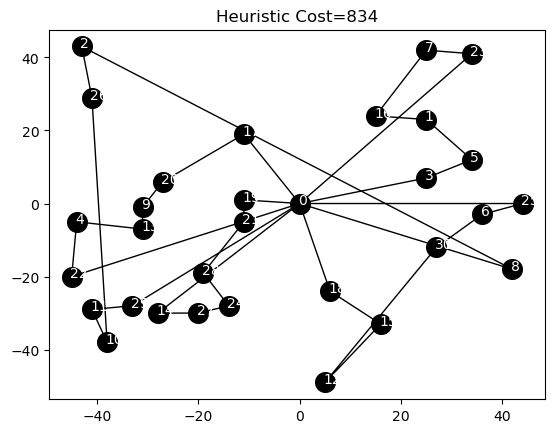
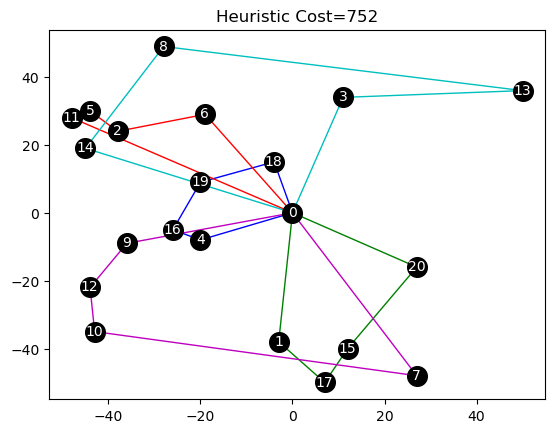
colors ok, need to plot evolution curve

diff --git a/src/solver/column_generation/rcsp.py b/src/solver/column_generation/rcsp.py
@@ -156,7 +156,7 @@ class RCSP:
         )
 
     def solve_enumeration(
-        self, vehicle_cap_dual: float
+        self, vehicle_cap_dual: float, max_clients_in_route: int, max_num_solutions: int
     ) -> List[tuple[float, List[int]]]:
         """The enumeration procedure finds solutions of the type:
         source -> M -> target, where M is a set of unique nodes different than {s, t},
@@ -164,18 +164,24 @@ class RCSP:
 
         Args:
             vehicle_cap_dual (float):
+            max_clients_in_route (int):
+            max_num_solutions (int)
 
         Returns:
             solutions (List[float, List[int]]): list of (cost, path)
         """
+        assert max_clients_in_route > 0
+        assert max_num_solutions > 0
+
         # Add all the feasible paths here with its cost and set of node
         solutions: List[float, List[int]] = []
         M = list(self.set_N)
         M.remove(self.par_source)
         M.remove(self.par_target)
 
-        # Get all the routes of size 1,2,...,|M|
-        for i in range(1, len(M) + 1):
+        # Get all the routes of size 1, 2, ..., max_clients_in_route
+        for i in range(1, max_clients_in_route + 1):
+            print(f"\tAnalyzing combinations C({len(M)},{i})")
             comb = combinations(M, i)
             paths = [[self.par_source] + list(c) + [self.par_target] for c in comb]
             for p in paths:
@@ -183,7 +189,8 @@ class RCSP:
                 if feasible and cost < 0:
                     solutions.append((cost, p))
 
-        return solutions
+        solutions.sort()
+        return solutions[0 : min(len(solutions), max_num_solutions)]
 
     def evaluate_path(
         self, p: List[int], vehicle_cap_dual: float

diff --git a/src/problem/cvrp.py b/src/problem/cvrp.py
@@ -23,8 +23,8 @@ class CVRP:
         self.demand: List[int] = data["demand"]  # demand of each node
         self.coordinates: np.ndarray = np.asarray(data["coordinates"])
         self.distance: np.ndarray = self._get_distances(self.coordinates)
-        print(f"distances:\n{self.distance}")
-        print(f"demand:\n{self.demand}")
+        # print(f"distances:\n{self.distance}")
+        # print(f"demand:\n{self.demand}")
 
     def is_valid_route(self, r: Route) -> bool:
         """Checks the validity of the route:
@@ -103,14 +103,22 @@ class CVRP:
             x, y = self.coordinates[i, :]
             color = "black"
             ax.scatter(x, y, s=200, color=color)  # circle
-            plt.annotate(str(i), (x - 0.3, y - 0.35), color="white", size=10)  # id
+            x_displacement = -1 if i < 10 else -2
+            plt.annotate(
+                str(i), (x + x_displacement, y - 1), color="white", size=10
+            )  # id
 
         # Plot the routes
-        for route in routes.values():
+        route_color = ["b", "g", "r", "c", "m", "k"]
+
+        for index, route in enumerate(routes.values()):
             if len(route.nodes) > 0:
+                col = route_color[index]
                 verts = [pos[n] for n in route.nodes]
                 path = Path(verts)
-                patch = patches.PathPatch(path, facecolor="none", lw=1, zorder=0)
+                patch = patches.PathPatch(
+                    path, facecolor="none", lw=1, zorder=0, edgecolor=col
+                )
                 ax.add_patch(patch)
 
         # Save the fig

diff --git a/src/solver/column_generation/pricing_problem.py b/src/solver/column_generation/pricing_problem.py
@@ -4,6 +4,8 @@ import numpy as np
 
 from .rcsp import RCSP
 
+_MAX_NUM_SOLUTIONS = 100
+
 
 class PricingProblem:
     """
@@ -71,12 +73,12 @@ class PricingProblem:
         duals_col = np.zeros((n + 1, 1))
         for id_client, dual_value in self.client_duals.items():
             duals_col[id_client, 0] = dual_value
-        print(f"duals_col:\n{duals_col}")
-        print(f"\ncost before duals:\n{cost}")
+        # print(f"duals_col:\n{duals_col}")
+        # print(f"\ncost before duals:\n{cost}")
         cost -= duals_col
         # From node i you cant go to node i
         np.fill_diagonal(cost, np.inf)
-        print(f"\ncost after duals:\n{cost}")
+        # print(f"\ncost after duals:\n{cost}")
 
         # Resources (demand of each client)
         times = np.zeros((n + 1, n + 1))
@@ -85,8 +87,12 @@ class PricingProblem:
         times += demands
         # From node i you cant go to node i
         np.fill_diagonal(times, np.inf)
-        print(f"\ntimes:\n{times}")
+        # print(f"\ntimes:\n{times}")
 
         rcsp = RCSP(costs=cost, times=times, T=self.capacity, source=0, target=n)
-        cost_path_solutions = rcsp.solve_enumeration(self.vehicle_cap_dual)
+        cost_path_solutions = rcsp.solve_enumeration(
+            vehicle_cap_dual=self.vehicle_cap_dual,
+            max_clients_in_route=self.capacity,
+            max_num_solutions=_MAX_NUM_SOLUTIONS,
+        )
         return cost_path_solutions

diff --git a/src/solver/column_generation/method.py b/src/solver/column_generation/method.py
@@ -58,7 +58,10 @@ class SolverColumnGeneration:
         )
 
         for i in range(max_iterations):
-            print(f"\nMASTER ITERATION: {i+1} -------------------\n")
+            print(
+                f"\nMASTER ITERATION: {i+1} ---------------------------------------------\n"
+            )
+            print(f"Master has: {len(self.master.routes)} unique routes")
 
             # Get the duals
             self.master.build_model(is_linear=True)
@@ -67,6 +70,7 @@ class SolverColumnGeneration:
             self.pricing.set_duals(client_duals, vehicle_cap_dual)
 
             # Find a negative reduced-cost path
+            print(f"\nSolving the pricing problem...")
             cost_path_solutions = self.pricing.solve()
             if len(cost_path_solutions) > 0:
                 print("\n Results of Pricing Problem:")
@@ -89,7 +93,7 @@ class SolverColumnGeneration:
         final_solution: Solution = self.master.get_solution()
         instance.draw(
             routes=final_solution.routes,
-            title=f"Final Solution Z={final_solution.total_cost}",
+            title=f"Final Cost={round(final_solution.total_cost)}",
             filename="final",
             folder_to_save=folder,
         )

diff --git a/src/main.py b/src/main.py
@@ -8,11 +8,11 @@ FOLDER_INSTANCES = ".\\src\\instances\\"
 
 
 if __name__ == "__main__":
-    # Create a new instance
+    # # Create a new instance
     # create(
-    #     num_clients=30,
-    #     num_vehicles=6,
-    #     capacity=6,
+    #     num_clients=20,
+    #     num_vehicles=5,
+    #     capacity=4,
     #     name="03",
     #     folder=FOLDER_INSTANCES,
     #     radius=50,
@@ -23,4 +23,6 @@ if __name__ == "__main__":
     instance_folder = os.path.join(FOLDER_INSTANCES, instance)
     filepath = os.path.join(instance_folder, instance) + ".json"
     data = CVRP(filepath)
-    solver = SolverColumnGeneration(instance=data, folder=instance_folder)
+    solver = SolverColumnGeneration(
+        instance=data, folder=instance_folder, max_iterations=1
+    )

diff --git a/src/solver/column_generation/master_problem.py b/src/solver/column_generation/master_problem.py
@@ -245,11 +245,11 @@ class MasterProblem:
         # https://support.gurobi.com/hc/en-us/community/posts/15340462880785-How-to-retrieve-the-dual-variable-value-for-a-linear-constraint-in-a-SOCP-problem
         client_dual: Dict[int, float] = dict()
         for client_id, c in self.con_serve_clients.items():
-            print(f"client id: {client_id}, dual: {c.Pi}")
+            # print(f"client id: {client_id}, dual: {c.Pi}")
             client_dual[client_id] = c.Pi
 
         vehicle_cap_dual = self.con_vehicle_limit.Pi
-        print(f"vehicle cap dual: {vehicle_cap_dual}")
+        # print(f"vehicle cap dual: {vehicle_cap_dual}")
 
         assert len(client_dual) == len(self.set_N)
         return client_dual, vehicle_cap_dual
